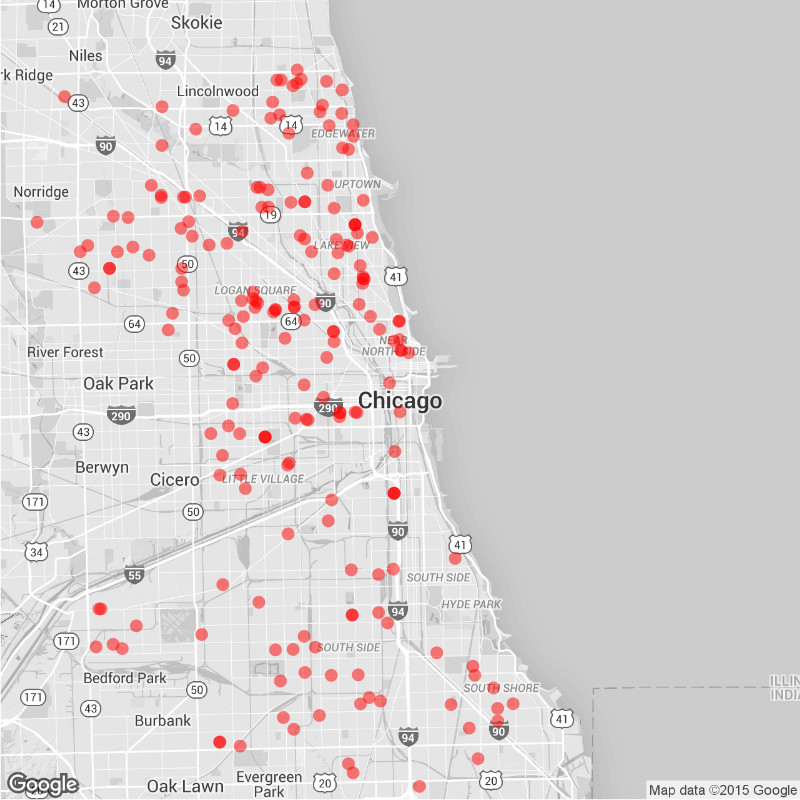
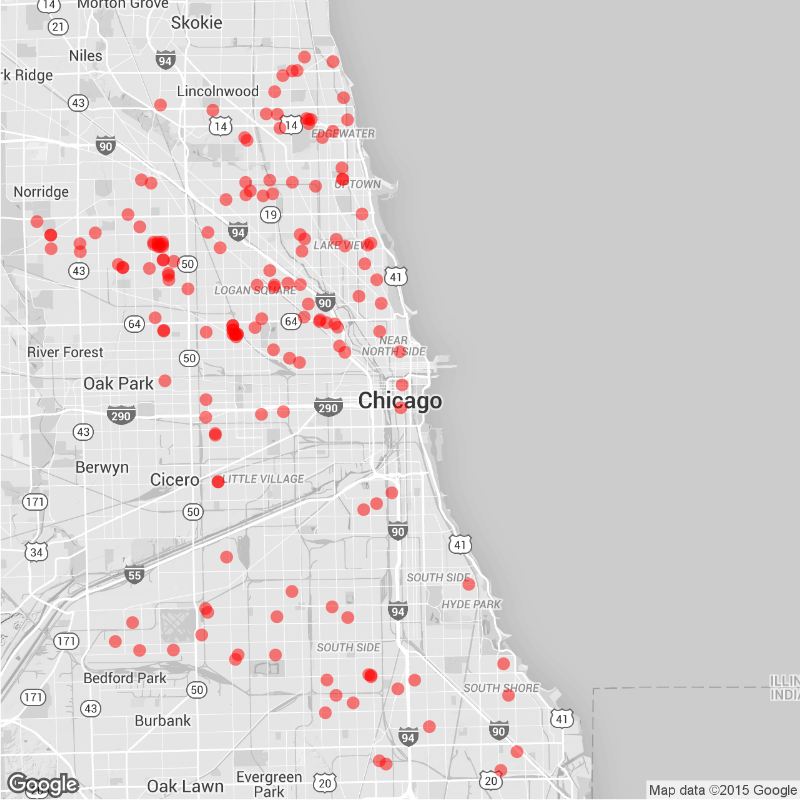
Daily Maps

diff --git a/daily.md b/daily.md
@@ -15,22 +15,22 @@ tags: Chicago NYC weekly daily rats
 
 ### Daily
 
-Yesterday (October 05), there were 213 calls to Chicago's 311 line about rats.
+Yesterday (October 06), there were 165 calls to Chicago's 311 line about rats.
 ![Chicago rat calls to 311 weekly map]({{ site.cityimages }}/daily/Chicago_Rat_Map_Daily.png)
 
 ### Weekly
-Between September 29 and October 05, there were 965 calls to Chicago's 311 line about rats. The average number of weekly calls for this time of year is 763.
+Between September 30 and October 06, there were 945 calls to Chicago's 311 line about rats. The average number of weekly calls for this time of year is 725.
 ![Chicago rat calls to 311 weekly map]({{ site.cityimages }}/daily/Chicago_Rat_Map_Weekly.png)
 ***
 # New York City <a id="nyc"><a>
 
 ### Daily
 
-Yesterday (October 05), there were 0 calls to New York City's 311 line about rats.
+Yesterday (October 06), there were 0 calls to New York City's 311 line about rats.
 ![NYC rat calls to 311 weekly map]({{ site.cityimages }}/daily/NYC_Rat_Map_Daily.png)
 
 ### Weekly
-Between September 29 and October 05, there were 0 calls to New York City's 311 line about rats. The average number of weekly calls for this time of year is 244.
+Between September 30 and October 06, there were 0 calls to New York City's 311 line about rats. The average number of weekly calls for this time of year is 235.
 ![NYC rat calls to 311 weekly map]({{ site.cityimages }}/daily/NYC_Rat_Map_Weekly.png)
 
 Each red dot represents one call about a rat seen in that location. The dots are transparent, so multiple calls from one location will be seen as a solid dot. The usual caveats apply: more calls do not necessarily mean that there are more rats in that location than other parts of the city. A cluster of dots could indicate that one resident is unusually vocal about rodents in his or her neighborhood. Also, more densely populated neighborhoods tend to make more calls to 311.
